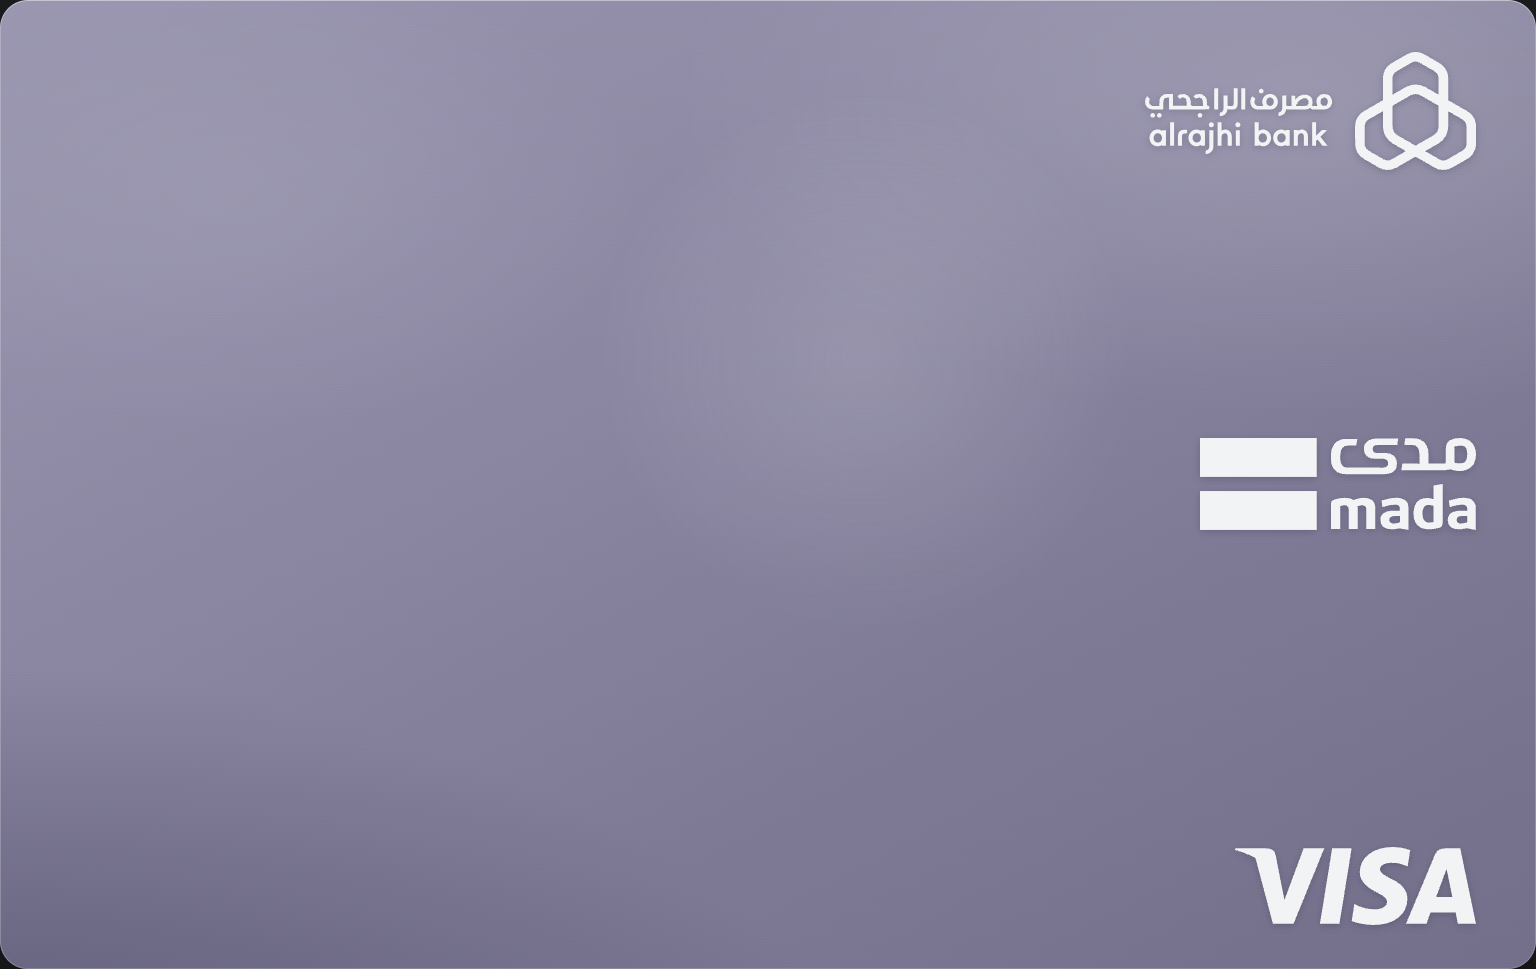
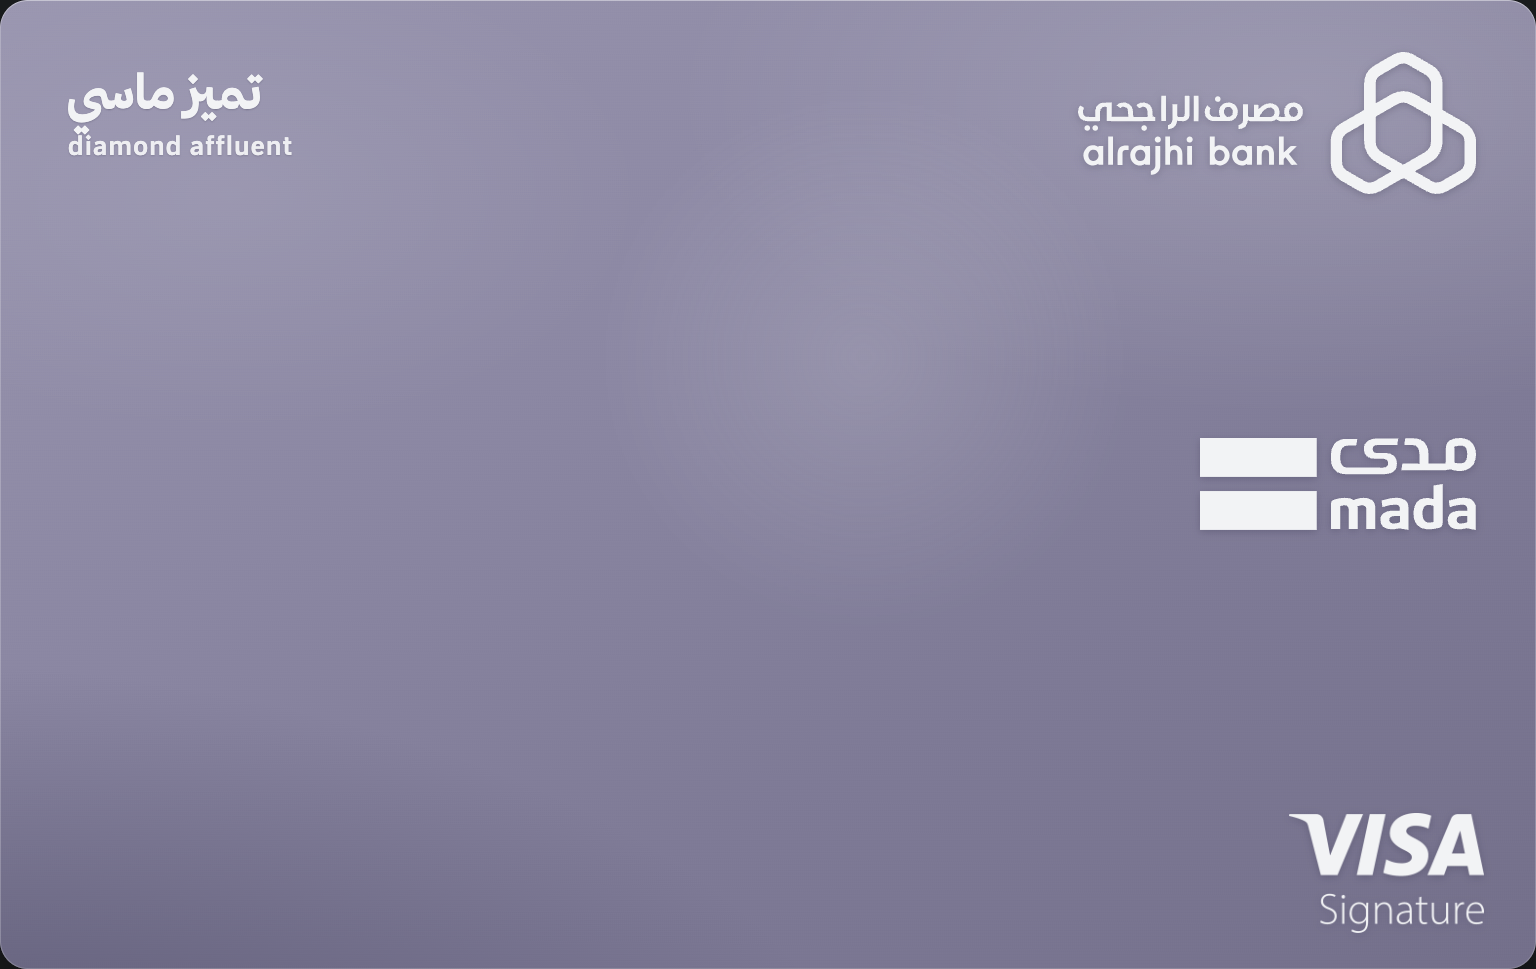
Add Thmanyah Sans font styles and update product presentation in HTML

Changed region(s): [[0.6875, 0.031, 0.9688, 0.2167], [0.8125, 0.8359, 0.9688, 0.9598], [0.0312, 0.0619, 0.1875, 0.1548]]

diff --git a/brand-package/html/بطاقة-هوية-راجحي.html b/brand-package/html/بطاقة-هوية-راجحي.html
@@ -4,6 +4,11 @@
 <meta charset="utf-8"/>
 <title>بطاقة فضية — الراجحي</title>
 <style>
+@font-face{font-family:'Thmanyah Sans';src:url('../fonts/thmanyahsans-Light.otf');font-weight:300}
+@font-face{font-family:'Thmanyah Sans';src:url('../fonts/thmanyahsans-Regular.otf');font-weight:400}
+@font-face{font-family:'Thmanyah Sans';src:url('../fonts/thmanyahsans-Medium.otf');font-weight:500 600}
+@font-face{font-family:'Thmanyah Sans';src:url('../fonts/thmanyahsans-Bold.otf');font-weight:700}
+@font-face{font-family:'Thmanyah Sans';src:url('../fonts/thmanyahsans-Black.otf');font-weight:900}
 *{box-sizing:border-box;margin:0;padding:0}
 body{
   margin:0;background:#1a1c1e;display:flex;align-items:center;justify-content:center;
@@ -43,11 +48,27 @@ body{
   background:radial-gradient(circle, rgba(242,243,245,.14), transparent 68%);
   left:38%;top:8%;pointer-events:none;filter:blur(8px);
 }
+.product{
+  position:absolute;top:64px;left:68px;
+  color:#F2F3F5;
+  text-shadow:0 1px 2px rgba(40,38,60,.2);
+}
+.product .ar{
+  font-family:'Thmanyah Sans',sans-serif;
+  font-size:48px;font-weight:700;line-height:1.15;
+  direction:rtl;text-align:left;
+}
+.product .en{
+  margin-top:10px;
+  font-family:'Thmanyah Sans',Helvetica Neue,Helvetica,Arial,sans-serif;
+  font-size:26px;font-weight:500;letter-spacing:.04em;
+  color:#F2F3F5;opacity:.95;
+}
 .bank{
   position:absolute;top:52px;right:60px;
 }
 .bank img{
-  height:118px;width:auto;display:block;
+  height:142px;width:auto;display:block;
   filter:drop-shadow(0 2px 4px rgba(40,38,60,.25));
 }
 .mada{
@@ -58,10 +79,10 @@ body{
   filter:drop-shadow(0 2px 4px rgba(40,38,60,.25));
 }
 .visa{
-  position:absolute;right:60px;bottom:44px;
+  position:absolute;right:52px;bottom:36px;
 }
 .visa img{
-  height:78px;width:auto;display:block;
+  height:120px;width:auto;display:block;
   filter:drop-shadow(0 2px 4px rgba(40,38,60,.25));
 }
 </style>
@@ -71,6 +92,11 @@ body{
   <div class="swoosh"></div>
   <div class="sheen"></div>
 
+  <div class="product">
+    <div class="ar">تميز ماسي</div>
+    <div class="en">diamond affluent</div>
+  </div>
+
   <div class="bank">
     <img src="../png/بطاقة-فضية/alrajhi-logo-chrome.svg" alt="مصرف الراجحي"/>
   </div>
@@ -79,7 +105,7 @@ body{
     <img src="../png/بطاقة-فضية/mada-logo-chrome.svg" alt="mada"/>
   </div>
   <div class="visa">
-    <img src="../png/بطاقة-فضية/visa-logo-chrome.svg" alt="Visa"/>
+    <img src="../png/بطاقة-فضية/visa-signature-chrome.png" alt="Visa Signature"/>
   </div>
 </div>
 </body>
